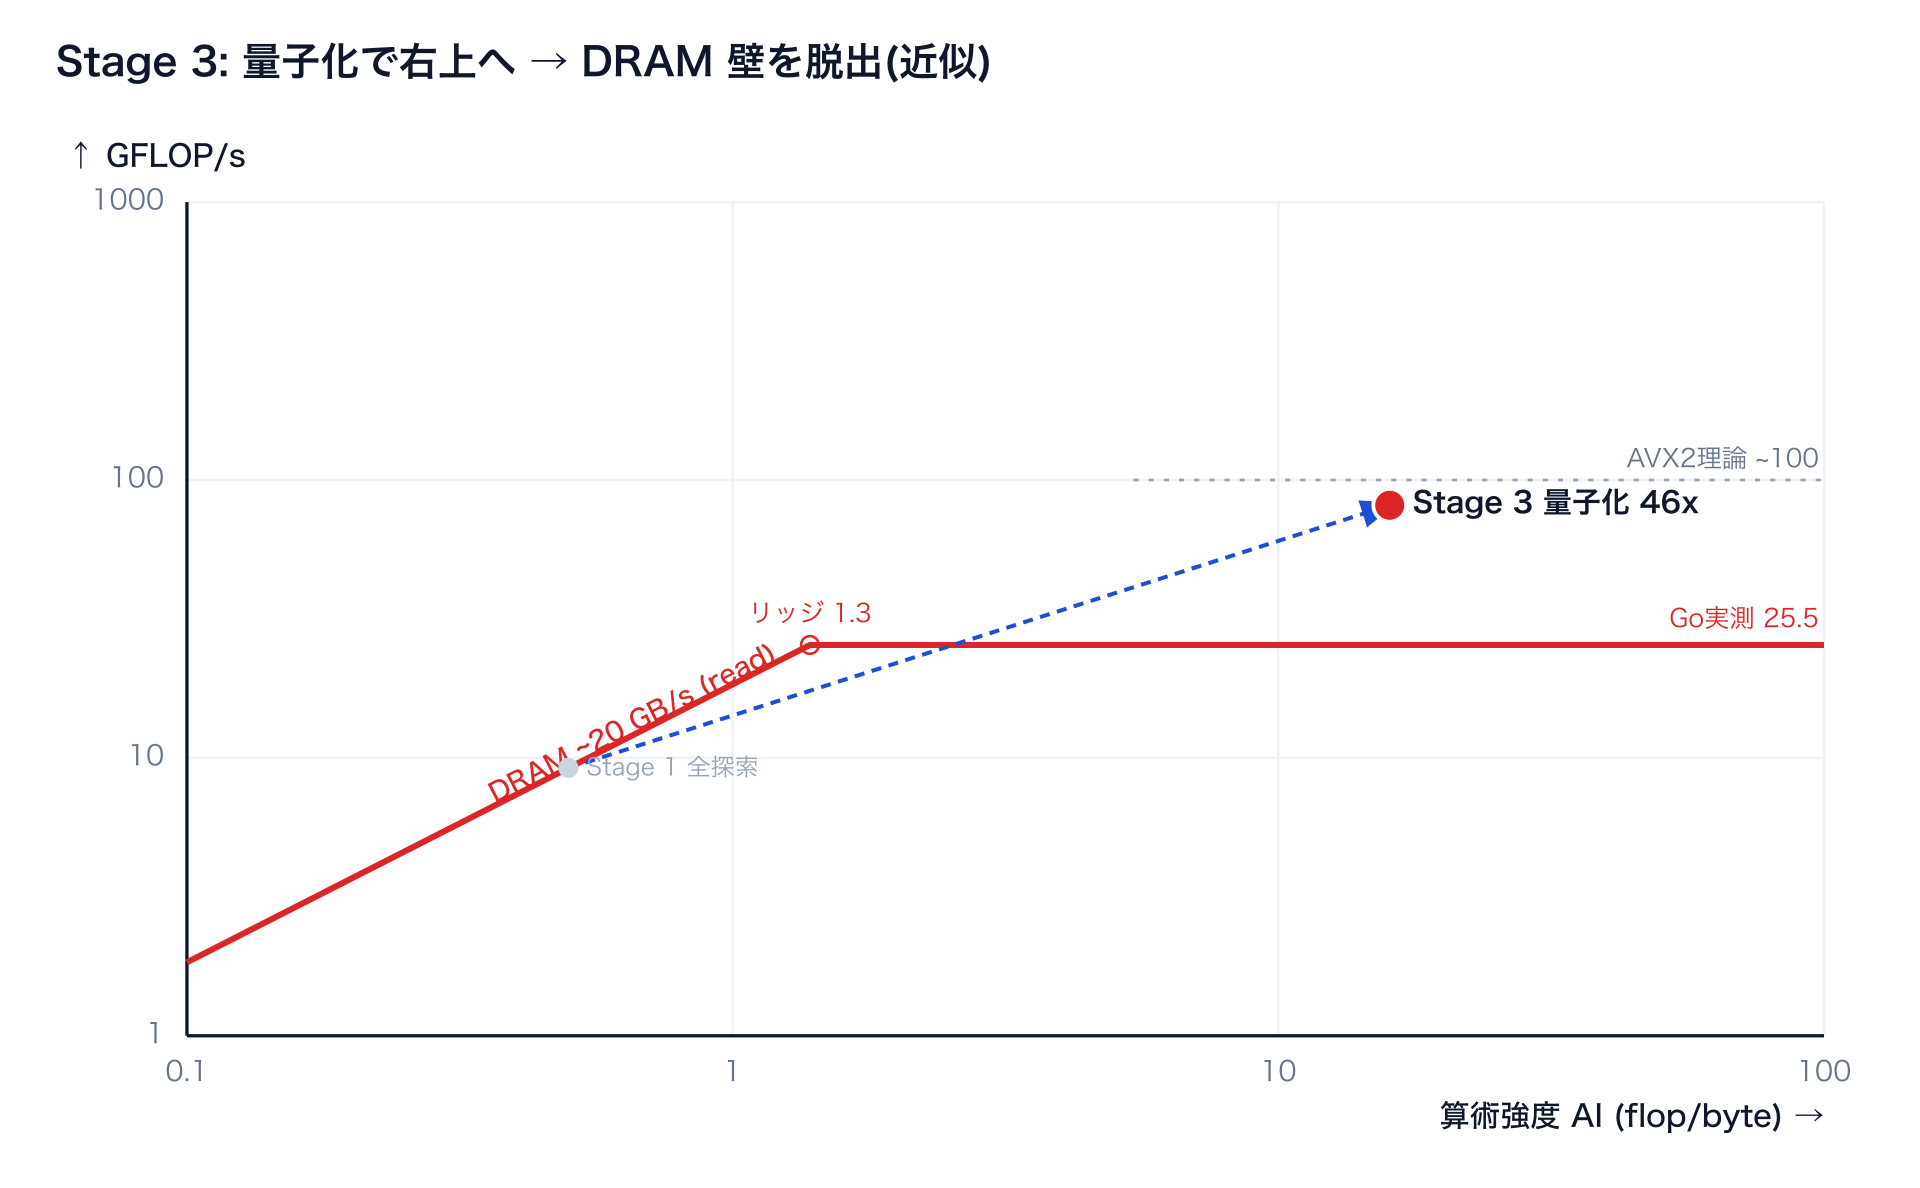
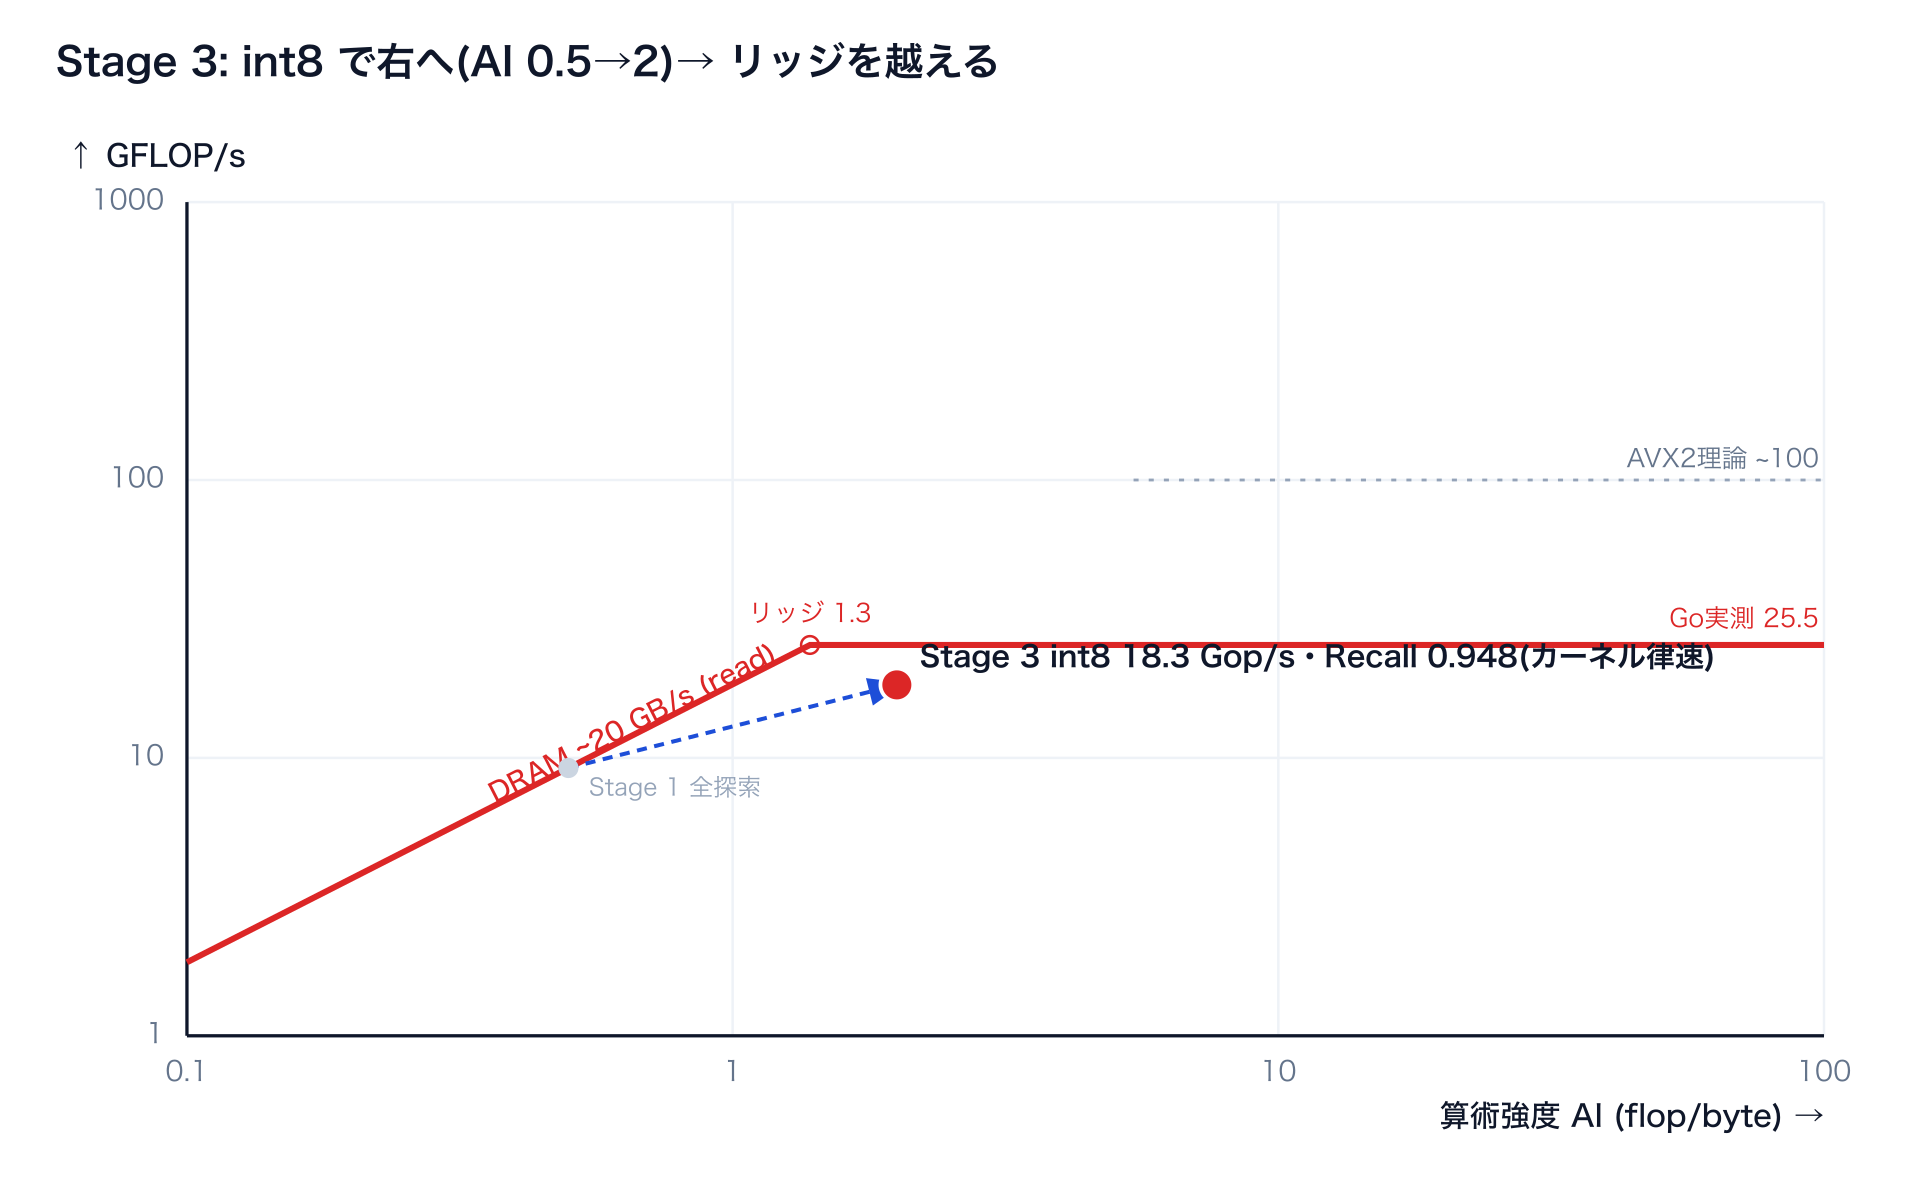
docs(workshop): int8 を本編 Stage 3 に昇格 — バイト削減を 1/4→1/32 のエスカレーション構成に
新しい本編: Stage 0 スカラ → 1 SIMD(壁)→ 2 バッチ(①再利用・リッジ越え)
→ 寄り道(並列)→ 3 int8(②バイト削減 1/4・SIMD が量子化でも主役 10.5x・
Recall 0.948・律速がカーネルへ移動)→ 4 バイナリ(極限 1/32・46x・Recall 崩壊)
→ 5 rerank(SIMD で精度復元)

- Stage 5 末尾に fp32 / int8 / 1bit / 1bit+rerank の「速度×精度の設計空間」表
- 図: rl-stage3(int8・AI=2 でリッジ右)を新規作成、旧 stage3/4 → rl-stage4/5 に
  リネーム、overview に S3 int8 の点を追加
- 付録を A=MaxSim / B=AVX-512 に再番号、参照を全数更新
- Makefile コメント・isa-report(Stage 3 の int8 API 追加)・README・
  コードコメントを新番号に追随(make ターゲット名は互換維持)
- §07 の律速変遷表を新構成に更新、OPTIMIZATION_LOG Step 11 に記録

diff --git a/cmd/isa-report/report_amd64.go b/cmd/isa-report/report_amd64.go
@@ -44,8 +44,13 @@ var apis = []api{
 	{"Stage 1", "Float32x8.MulAdd", "VFMADD213PS", "FMA", archsimd.X86.FMA},
 	{"Stage 1", "archsimd.ClearAVXUpperBits", "VZEROUPPER", "AVX", archsimd.X86.AVX},
 
-	// Stage 2 — binary search (scalar path in production)
-	{"Stage 2", "vec.Hamming (same as Stage 0)", "POPCNT", "(scalar)", func() bool { return true }},
+	// Stage 3 — int8 dot (AVX2 only)
+	{"Stage 3", "LoadInt8x16Slice", "VMOVDQU", "AVX2", archsimd.X86.AVX2},
+	{"Stage 3", "Int8x16.ExtendToInt16", "VPMOVSXBW", "AVX2", archsimd.X86.AVX2},
+	{"Stage 3", "Int16x16.DotProductPairs", "VPMADDWD", "AVX2", archsimd.X86.AVX2},
+
+	// Stage 4 — binary search (scalar path in production)
+	{"Stage 4", "vec.Hamming (same as Stage 0)", "POPCNT", "(scalar)", func() bool { return true }},
 
 	// Bonus — Uint64x4 Hamming SIMD
 	{"Bonus", "LoadUint64x4Slice", "VMOVDQU", "AVX2", archsimd.X86.AVX2},
@@ -125,6 +130,10 @@ func stageSummaries(hasSIMD, hasVPOPCNT bool) []stageSummary {
 	if hasSIMD {
 		dot = "yes"
 	}
+	dot8 := "no → DotInt8Naive fallback"
+	if archsimd.X86.AVX2() {
+		dot8 = "yes"
+	}
 	bonus := "no → Hamming fallback"
 	if hasVPOPCNT {
 		bonus = "yes"
@@ -132,7 +141,8 @@ func stageSummaries(hasSIMD, hasVPOPCNT bool) []stageSummary {
 	return []stageSummary{
 		{"Stage 0: scalar baseline", "(always)", "yes"},
 		{"Stage 1: SIMD dot", "archsimd.X86.AVX2() && FMA()", dot},
-		{"Stage 2: binary quantization", "scalar Hamming (POPCNT)", "yes"},
+		{"Stage 3: int8 quantization", "archsimd.X86.AVX2()", dot8},
+		{"Stage 4: binary quantization", "scalar Hamming (POPCNT)", "yes"},
 		{"Bonus: AVX-512 Hamming", "AVX512() && AVX512VPOPCNTDQ()", bonus},
 		{"Finish: binary + rerank", "Hamming + Dot guard", rerank},
 	}
@@ -143,7 +153,7 @@ func sortedKeys(m map[string][]api) []string {
 	for k := range m {
 		keys = append(keys, k)
 	}
-	order := map[string]int{"Stage 0": 0, "Stage 1": 1, "Stage 2": 2, "Bonus": 3, "Finish": 4}
+	order := map[string]int{"Stage 0": 0, "Stage 1": 1, "Stage 3": 2, "Stage 4": 3, "Bonus": 4, "Finish": 5}
 	sort.Slice(keys, func(i, j int) bool {
 		oi, oj := order[keys[i]], order[keys[j]]
 		if oi != oj {

diff --git a/internal/index/index.go b/internal/index/index.go
@@ -16,7 +16,7 @@ type Result struct {
 
 // Index holds the vectors in multiple representations:
 // float32(正確・重い)、binary code(粗い・1/32 サイズ)、
-// int8 code(付録A: 1/4 サイズ・BuildInt8 で構築)。
+// int8 code(Stage 3: 1/4 サイズ・BuildInt8 で構築)。
 type Index struct {
 	Dim   int
 	Words int
@@ -24,7 +24,7 @@ type Index struct {
 	Data  []float32 // N*Dim, row-major
 	Codes []uint64  // N*Words, sign-bit quantized
 
-	// 付録A(int8 量子化)。BuildInt8() を呼ぶまで空。
+	// Stage 3(int8 量子化)。BuildInt8() を呼ぶまで空。
 	Codes8 []int8    // N*Dim, symmetric int8 quantized
 	Scales []float32 // N, per-vector scale(復元は q8*scale ≈ fp32)
 }
@@ -74,7 +74,7 @@ func (ix *Index) SearchSIMD(q []float32, k int) []Result {
 	return t.results()
 }
 
-// SearchBinary is Stage 2: scan over binary codes with Hamming distance.
+// SearchBinary is Stage 4: scan over binary codes with Hamming distance.
 // Score は -距離(距離が小さいほど良い)。
 func (ix *Index) SearchBinary(q []float32, k int) []Result {
 	code := make([]uint64, ix.Words)

diff --git a/internal/index/int8.go b/internal/index/int8.go
@@ -2,7 +2,7 @@ package index
 
 import "github.com/po3rin/gocon2026-simd-search/internal/vec"
 
-// BuildInt8 は全ベクトルの int8 表現(1/4 サイズ)を構築する(付録A)。
+// BuildInt8 は全ベクトルの int8 表現(1/4 サイズ)を構築する(Stage 3)。
 // binary(1/32)と違い大きさの情報が残るので、rerank なしでも Recall が実用域。
 func (ix *Index) BuildInt8() {
 	ix.Codes8 = make([]int8, ix.N*ix.Dim)
@@ -17,7 +17,7 @@ func (ix *Index) Code8(id int) []int8 {
 	return ix.Codes8[id*ix.Dim : (id+1)*ix.Dim]
 }
 
-// SearchInt8 は int8 量子化した表現で全探索する(付録A)。
+// SearchInt8 は int8 量子化した表現で全探索する(Stage 3)。
 // スコアは qScale*dScale*dot_int8 ≈ fp32 の内積(近似)。
 // 転送は 1ベクトル 384 byte(fp32 の 1/4)→ AI が4倍に上がる。
 func (ix *Index) SearchInt8(q []float32, k int) []Result {

diff --git a/internal/index/int8_test.go b/internal/index/int8_test.go
@@ -6,7 +6,7 @@ import (
 )
 
 // TestRecallInt8 measures Recall@10 of the int8 stage on clustered data
-// (付録A)。binary(0.18)と違い、大きさの情報が残るので単体で実用域に入るはず。
+// (Stage 3)。binary(0.18)と違い、大きさの情報が残るので単体で実用域に入るはず。
 func TestRecallInt8(t *testing.T) {
 	const (
 		n        = 20_000
@@ -55,7 +55,7 @@ func TestRecallInt8(t *testing.T) {
 	}
 }
 
-// 付録A: int8 量子化(1/4 サイズ)での全探索。
+// Stage 3: int8 量子化(1/4 サイズ)での全探索。
 func BenchmarkSearchInt8(b *testing.B) {
 	benchSetup()
 	benchIx.BuildInt8()

diff --git a/internal/vec/hamming.go b/internal/vec/hamming.go
@@ -20,7 +20,7 @@ func Quantize(v []float32, out []uint64) {
 
 // Hamming returns the number of differing bits between a and b.
 //
-// Stage 2 の穴埋め対象。XOR + popcount だけで距離が出る。
+// Stage 4 の穴埋め対象。XOR + popcount だけで距離が出る。
 // math/bits.OnesCount64 はスカラーの POPCNT 命令にコンパイルされる。
 // SIMD 版 popcount(VPOPCNTQ)は AVX512VPOPCNTDQ が必要なので bonus 章で扱う。
 func Hamming(a, b []uint64) int {

diff --git a/internal/vec/int8_simd.go b/internal/vec/int8_simd.go
@@ -8,7 +8,7 @@ import "simd/archsimd"
 // すべて AVX2 で足りる(FMA 不要)。
 var hasInt8SIMD = archsimd.X86.AVX2()
 
-// DotInt8 は int8 ベクトルの内積を AVX2 で計算する(付録A)。
+// DotInt8 は int8 ベクトルの内積を AVX2 で計算する(Stage 3)。
 //
 // 1イテレーションで int8 を16個: sign-extend で int16x16 に広げ(VPMOVSXBW)、
 // DotProductPairs(VPMADDWD)が「隣り合う2要素の積和」を int32x8 で返すので

diff --git a/internal/vec/int8.go b/internal/vec/int8.go
@@ -2,7 +2,7 @@ package vec
 
 import "math"
 
-// QuantizeInt8 は v を対称 int8 量子化する(付録A)。
+// QuantizeInt8 は v を対称 int8 量子化する(Stage 3)。
 // q[i] = round(v[i] / scale), scale = maxAbs/127。復元は q[i]*scale ≈ v[i]。
 // binary(1bit)と違い大きさの情報が残るので、単体でも Recall が実用域に残る。
 // 戻り値はこのベクトルの scale(内積の復元に使う)。

diff --git a/internal/index/maxsim.go b/internal/index/maxsim.go
@@ -7,7 +7,7 @@ import (
 	"github.com/po3rin/gocon2026-simd-search/internal/vec"
 )
 
-// MultiIndex は文書を「トークンベクトルの集合」で持つ(付録B: late interaction)。
+// MultiIndex は文書を「トークンベクトルの集合」で持つ(付録A: late interaction)。
 // ColBERT 系の検索方式で、スコアは MaxSim:
 //
 //	score(q, d) = Σ_{qt∈q} max_{dt∈d} dot(qt, dt)

diff --git a/internal/index/maxsim_test.go b/internal/index/maxsim_test.go
@@ -38,7 +38,7 @@ func TestMaxSimAgreement(t *testing.T) {
 	}
 }
 
-// 付録B: MaxSim(late interaction)。文書トークン1ロードにつきクエリトークン
+// 付録A: MaxSim(late interaction)。文書トークン1ロードにつきクエリトークン
 // Tq 本と内積する構造がタスクに内在 = 最初から演算律速で SIMD が最初から効く。
 const (
 	maxsimDocs = 10_000

diff --git a/README.md b/README.md
@@ -41,13 +41,13 @@ Go 1.26 の実験的 SIMD パッケージ(`GOEXPERIMENT=simd` / `simd/archsimd`)
 ```sh
 make test       # 正しさの確認
 make roofline   # 各 Stage の GFLOP/s・AI・MB/query を表示して「図に点を打つ」
-make bench      # 本編フル(Stage 0/1/2 + rerank)。AVX2+FMA だけで完結
+make bench      # 本編フル(スカラ/SIMD/バイナリ/rerank)。AVX2+FMA だけで完結
 make recall     # Recall@10(binary vs rerank vs int8)
 make bench-parallel # 寄り道: goroutine 並列はどの天井に効くか
 make bench-nsweep   # Stage 1 コラム: DB サイズで SIMD 倍率が崩れる境界
-make bench-int8     # 付録A: int8 量子化(カーネル 10x・Recall 0.948)
-make bench-maxsim   # 付録B: MaxSim(late interaction・最初から演算律速)
-make bench-bonus    # 付録C: AVX-512 VPOPCNT。AVX-512機向け・速くならない確認用
+make bench-int8     # Stage 3: int8 量子化(カーネル 10x・Recall 0.948)
+make bench-maxsim   # 付録A: MaxSim(late interaction・最初から演算律速)
+make bench-bonus    # 付録B: AVX-512 VPOPCNT。AVX-512機向け・速くならない確認用
 ```
 
 `make roofline` の出力例(点を打つ = ルーフラインの①②):
